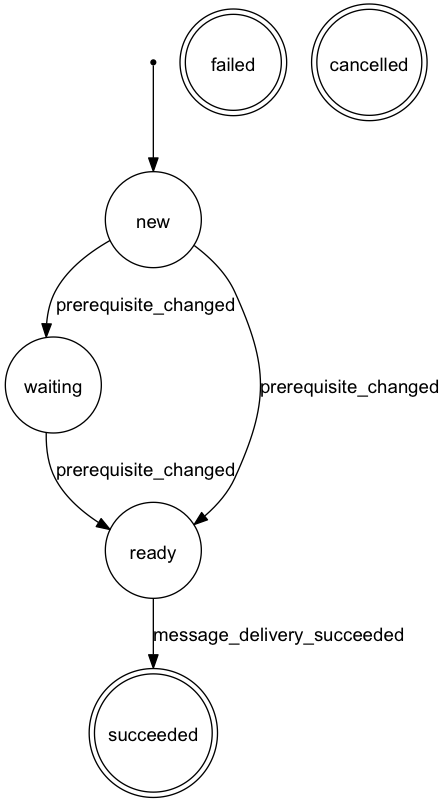
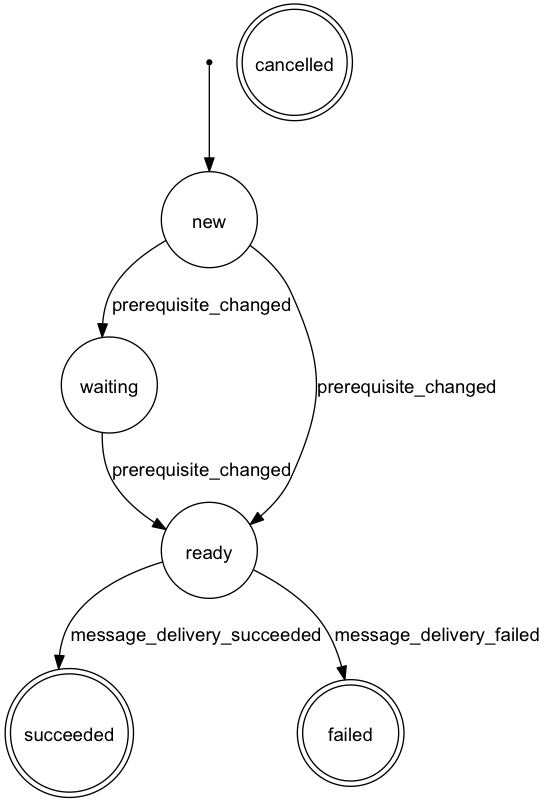
failure handling FTW

diff --git a/spec/unit/failure_spec.rb b/spec/unit/failure_spec.rb
@@ -1,0 +1,43 @@
+require 'spec_helper'
+
+require 'orchestrated'
+require 'failer'
+
+describe 'failure' do
+  context 'orchestrating a method that always fails' do
+    before(:each) do
+      Failer.new.orchestrated.always_fail('important stuff')
+    end
+    context 'after first exception from orchestrated method' do
+      before(:each) do
+        DJ.work(1)
+      end
+      it 'should leave the orchestration in the ready state' do
+        expect(Orchestrated::Orchestration.with_state('ready').count).to be(1)
+      end
+      it 'should leave the orchestration in the run queue' do
+        expect(DJ.job_count).to be(1)
+      end
+      context 'on first retry' do
+        it 'should retry with same arguments' do
+          Failer.any_instance.should_receive(:always_fail).with('important stuff')
+          DJ.work_now(1)
+        end
+      end
+    end
+    context 'after (Delayed::Worker.max_attempts + 1) exceptions from orchestrated method' do
+      before(:each) do
+        DJ.work_now(DJ.max_attempts)
+      end
+      it 'should leave the orchestration in the failed state' do
+        expect(Orchestrated::Orchestration.with_state('failed').count).to be(1)
+      end
+      context 'on first subsequent retry' do
+        it 'should never deliver the orchestrated message again' do
+          Failer.any_instance.should_not_receive(:always_fail)
+          DJ.work_now(1)
+        end
+      end
+    end
+  end
+end

diff --git a/spec/delayed_job_facade.rb b/spec/delayed_job_facade.rb
@@ -8,7 +8,17 @@ module DJ
   def work(num=100)
     Delayed::Worker.new.work_off(num)
   end
+  def work_now(num=100)
+    (1..num).each do
+      DelayedJob.first.tap{|job| job.run_at = 1.second.ago; job.save!}
+      DJ.work(1)
+    end
+  end
   def clear_all_jobs
     Delayed::Job.delete_all
+  end
+  def max_attempts
+    # configured in initializers/delayed_job_config.rb
+    Delayed::Worker.max_attempts
   end
 end

diff --git a/lib/orchestrated/message_delivery.rb b/lib/orchestrated/message_delivery.rb
@@ -21,5 +21,11 @@ module Orchestrated
       orchestration.message_delivery_succeeded
     end
 
+    # delayed_job hands us this message after max_attempts are exhausted
+    def failure
+      orchestration = Orchestration.find(self.orchestration_id)
+      orchestration.message_delivery_failed
+    end
+
   end
 end

diff --git a/lib/orchestrated/orchestration.rb b/lib/orchestrated/orchestration.rb
@@ -39,6 +39,10 @@ module Orchestrated
         transition :ready => :succeeded
       end
 
+      event :message_delivery_failed do
+        transition :ready => :failed
+      end
+
       after_transition any => :ready do |orchestration, transition|
         orchestration.enqueue
       end

diff --git a/config/initializers/delayed_job_config.rb b/config/initializers/delayed_job_config.rb
@@ -1,0 +1,3 @@
+Delayed::Worker.destroy_failed_jobs = false
+Delayed::Worker.max_attempts = 3
+Delayed::Worker.max_run_time = 15.seconds

diff --git a/lib/failer.rb b/lib/failer.rb
@@ -1,0 +1,7 @@
+class Failer
+  acts_as_orchestrated
+
+  def always_fail(something)
+    raise 'I never work'
+  end
+end
